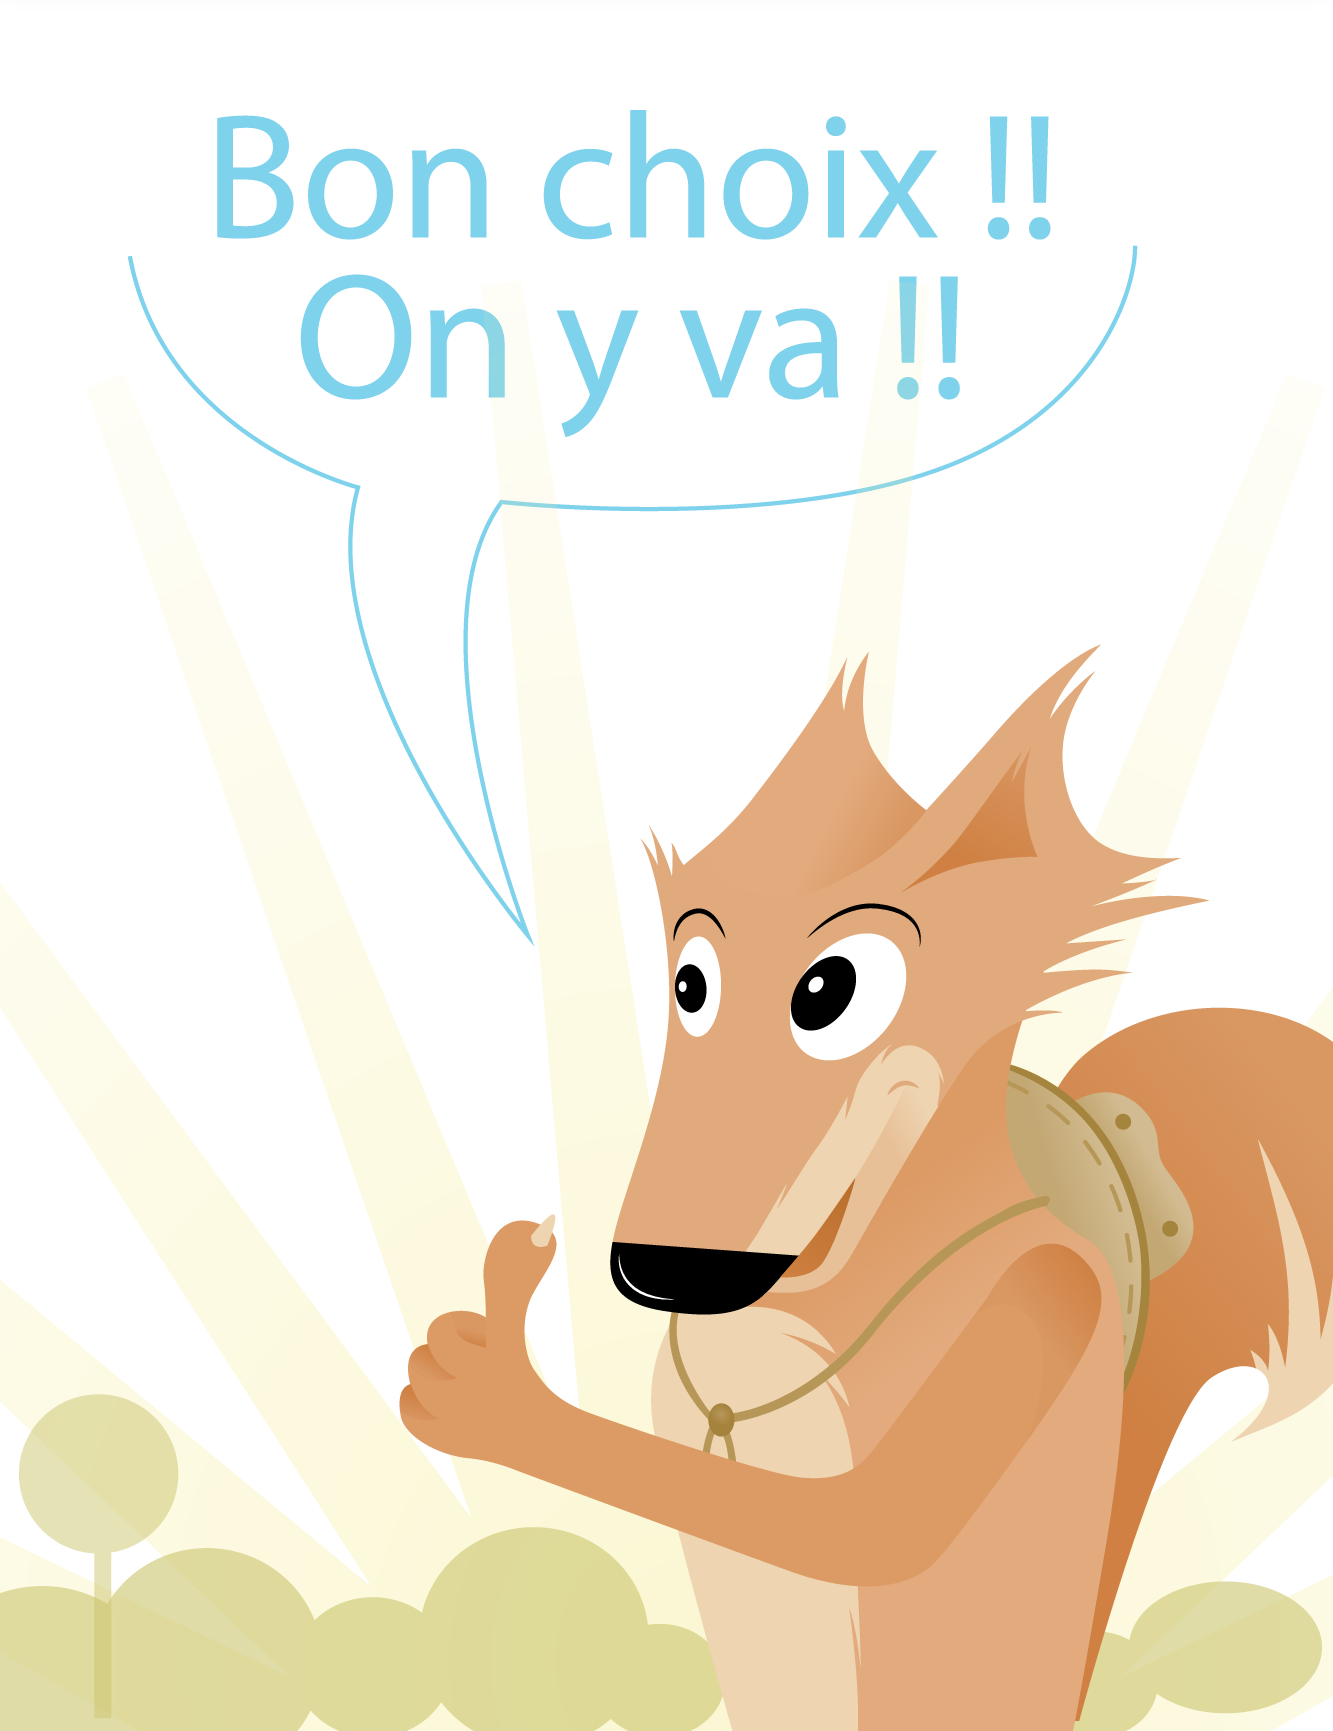
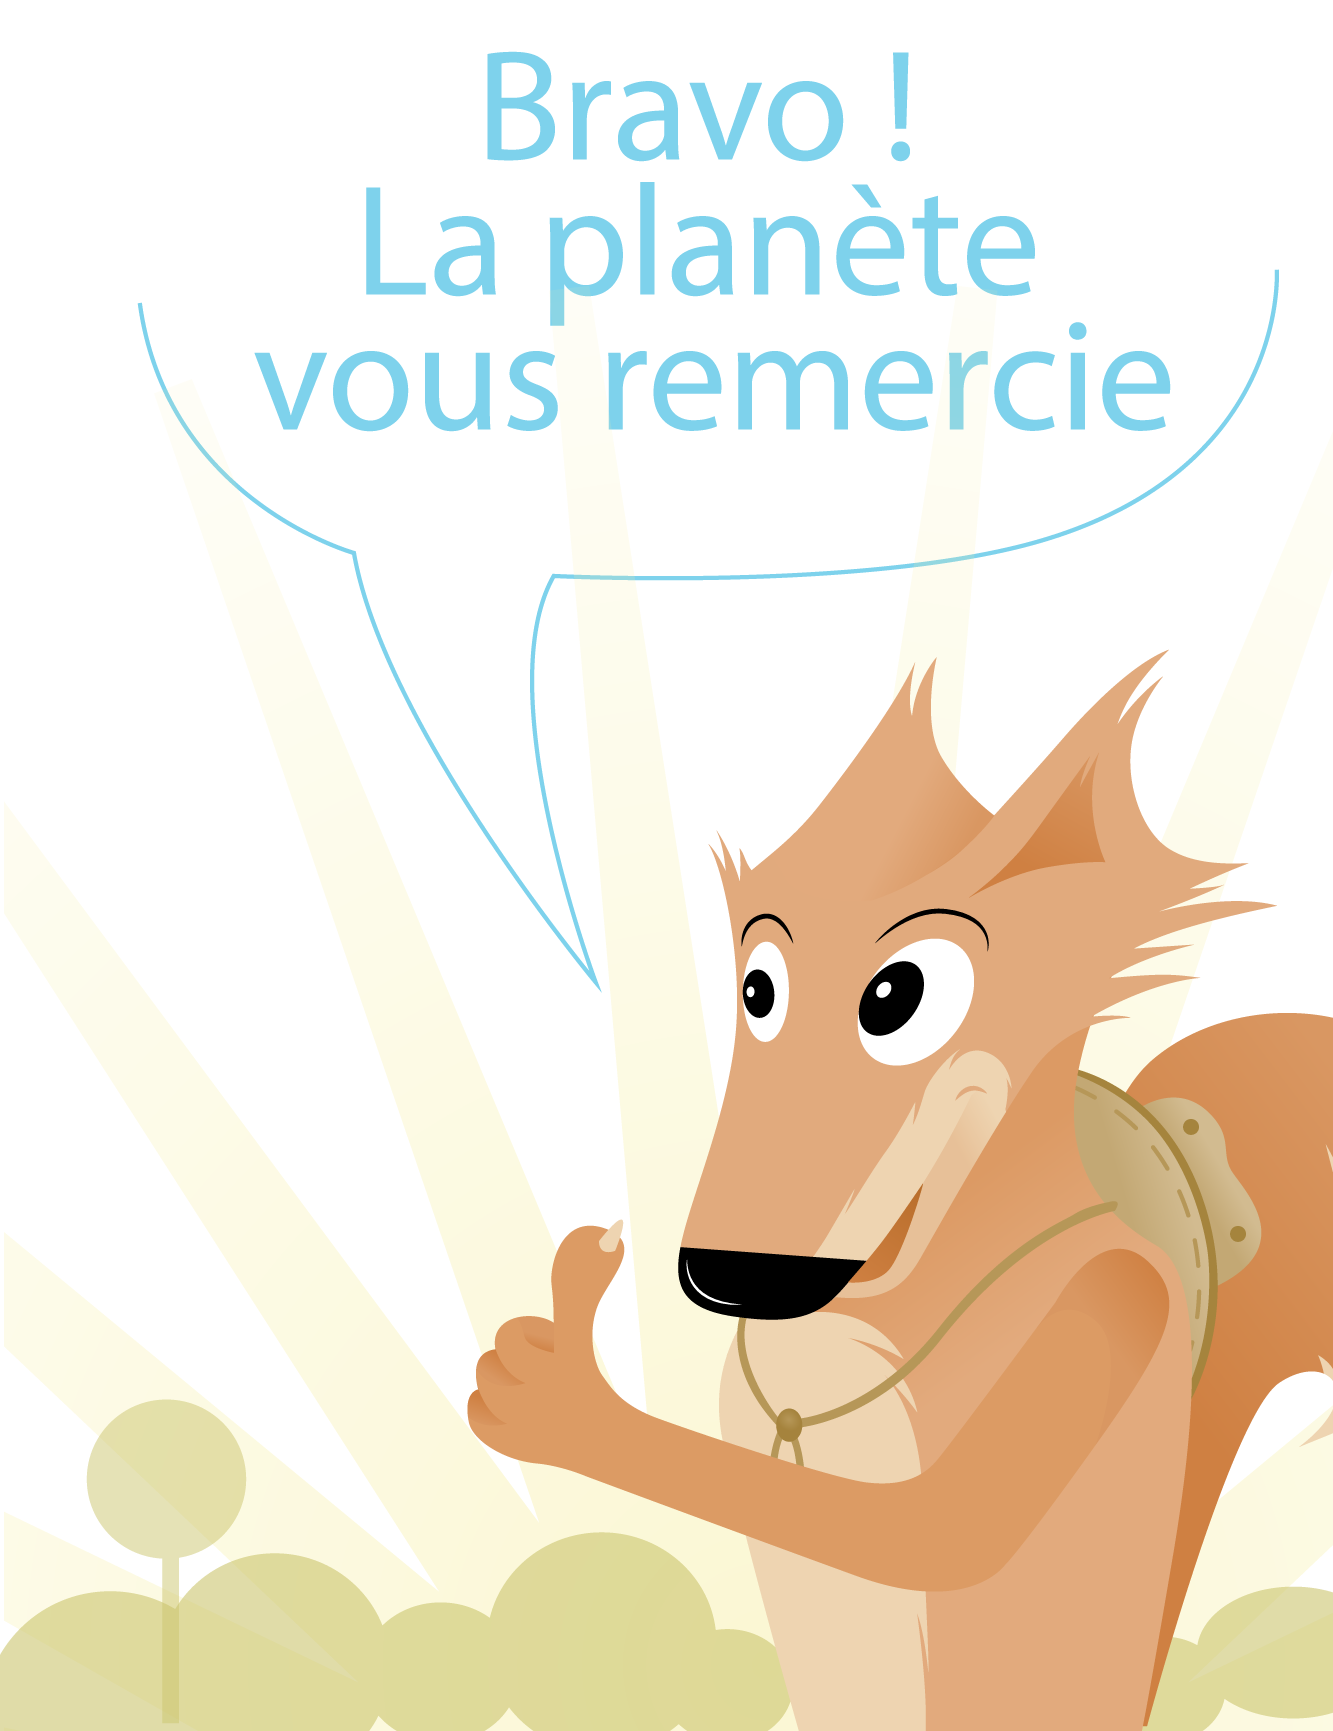
Amelioration de l'appli mobile

diff --git a/index.html b/index.html
@@ -303,9 +303,6 @@
 	</div>
 
 	<div data-role="content" class="content menu">
-		<div id="bonchoix-work">
-			<img src="jquery_mobile/images/bon-choix-on-y-va.png"/>
-		</div>
 		<aside class="col-gauche">
 			<a href="#choisir" id="touristiquemenu">
 				<img src="jquery_mobile/images/picto-touristiquemenu.png" onmousemove="javascript:this.src='jquery_mobile/images/picto-touristiquemenu-selected.png';"/>
@@ -343,11 +340,28 @@
 			</a>
 			<div class="clear"></div>
 			<hr/>
-			<a href="#" id="rechercher">
+			<a href="#work-2" id="rechercher">
 				Rechercher
 			</a>
 		</div>
 		<div class="clear"></div>
+	</div>
+</div>
+
+<!-- PAGE CHOISIS PARCOURS WORK SUITE -->
+<div data-role="page" id="work-2">
+	<div data-role="header" id="header-page">
+		<nav>
+			<a href="#parcours">
+				<img src="jquery_mobile/images/navigation.png"/>
+			</a>
+		</nav>
+		<img src="jquery_mobile/images/header-eco.png" class="logo-3"/>
+		<div class="clear"></div>
+	</div>
+
+	<div data-role="content" class="content">
+			<img src="jquery_mobile/images/bousole.png"/>
 	</div>
 </div>
 
@@ -365,6 +379,10 @@
 
 	<div data-role="content" class="content">
 		<div id="bonchoix">
+			<br/>
+			<br/>
+			<br/>
+			<br/>
 			<img src="jquery_mobile/images/bon-choix-on-y-va.png"/>
 		</div>
 		<div id="bilan-content" style="display:none;">
@@ -430,6 +448,10 @@
 	</div>
 
 	<div data-role="content" class="content">
+		<br/>
+		<br/>
+		<br/>
+		<br/>
 		<img src="jquery_mobile/images/la-planete-vous-remercie.png" />
 	</div>
 </div>
